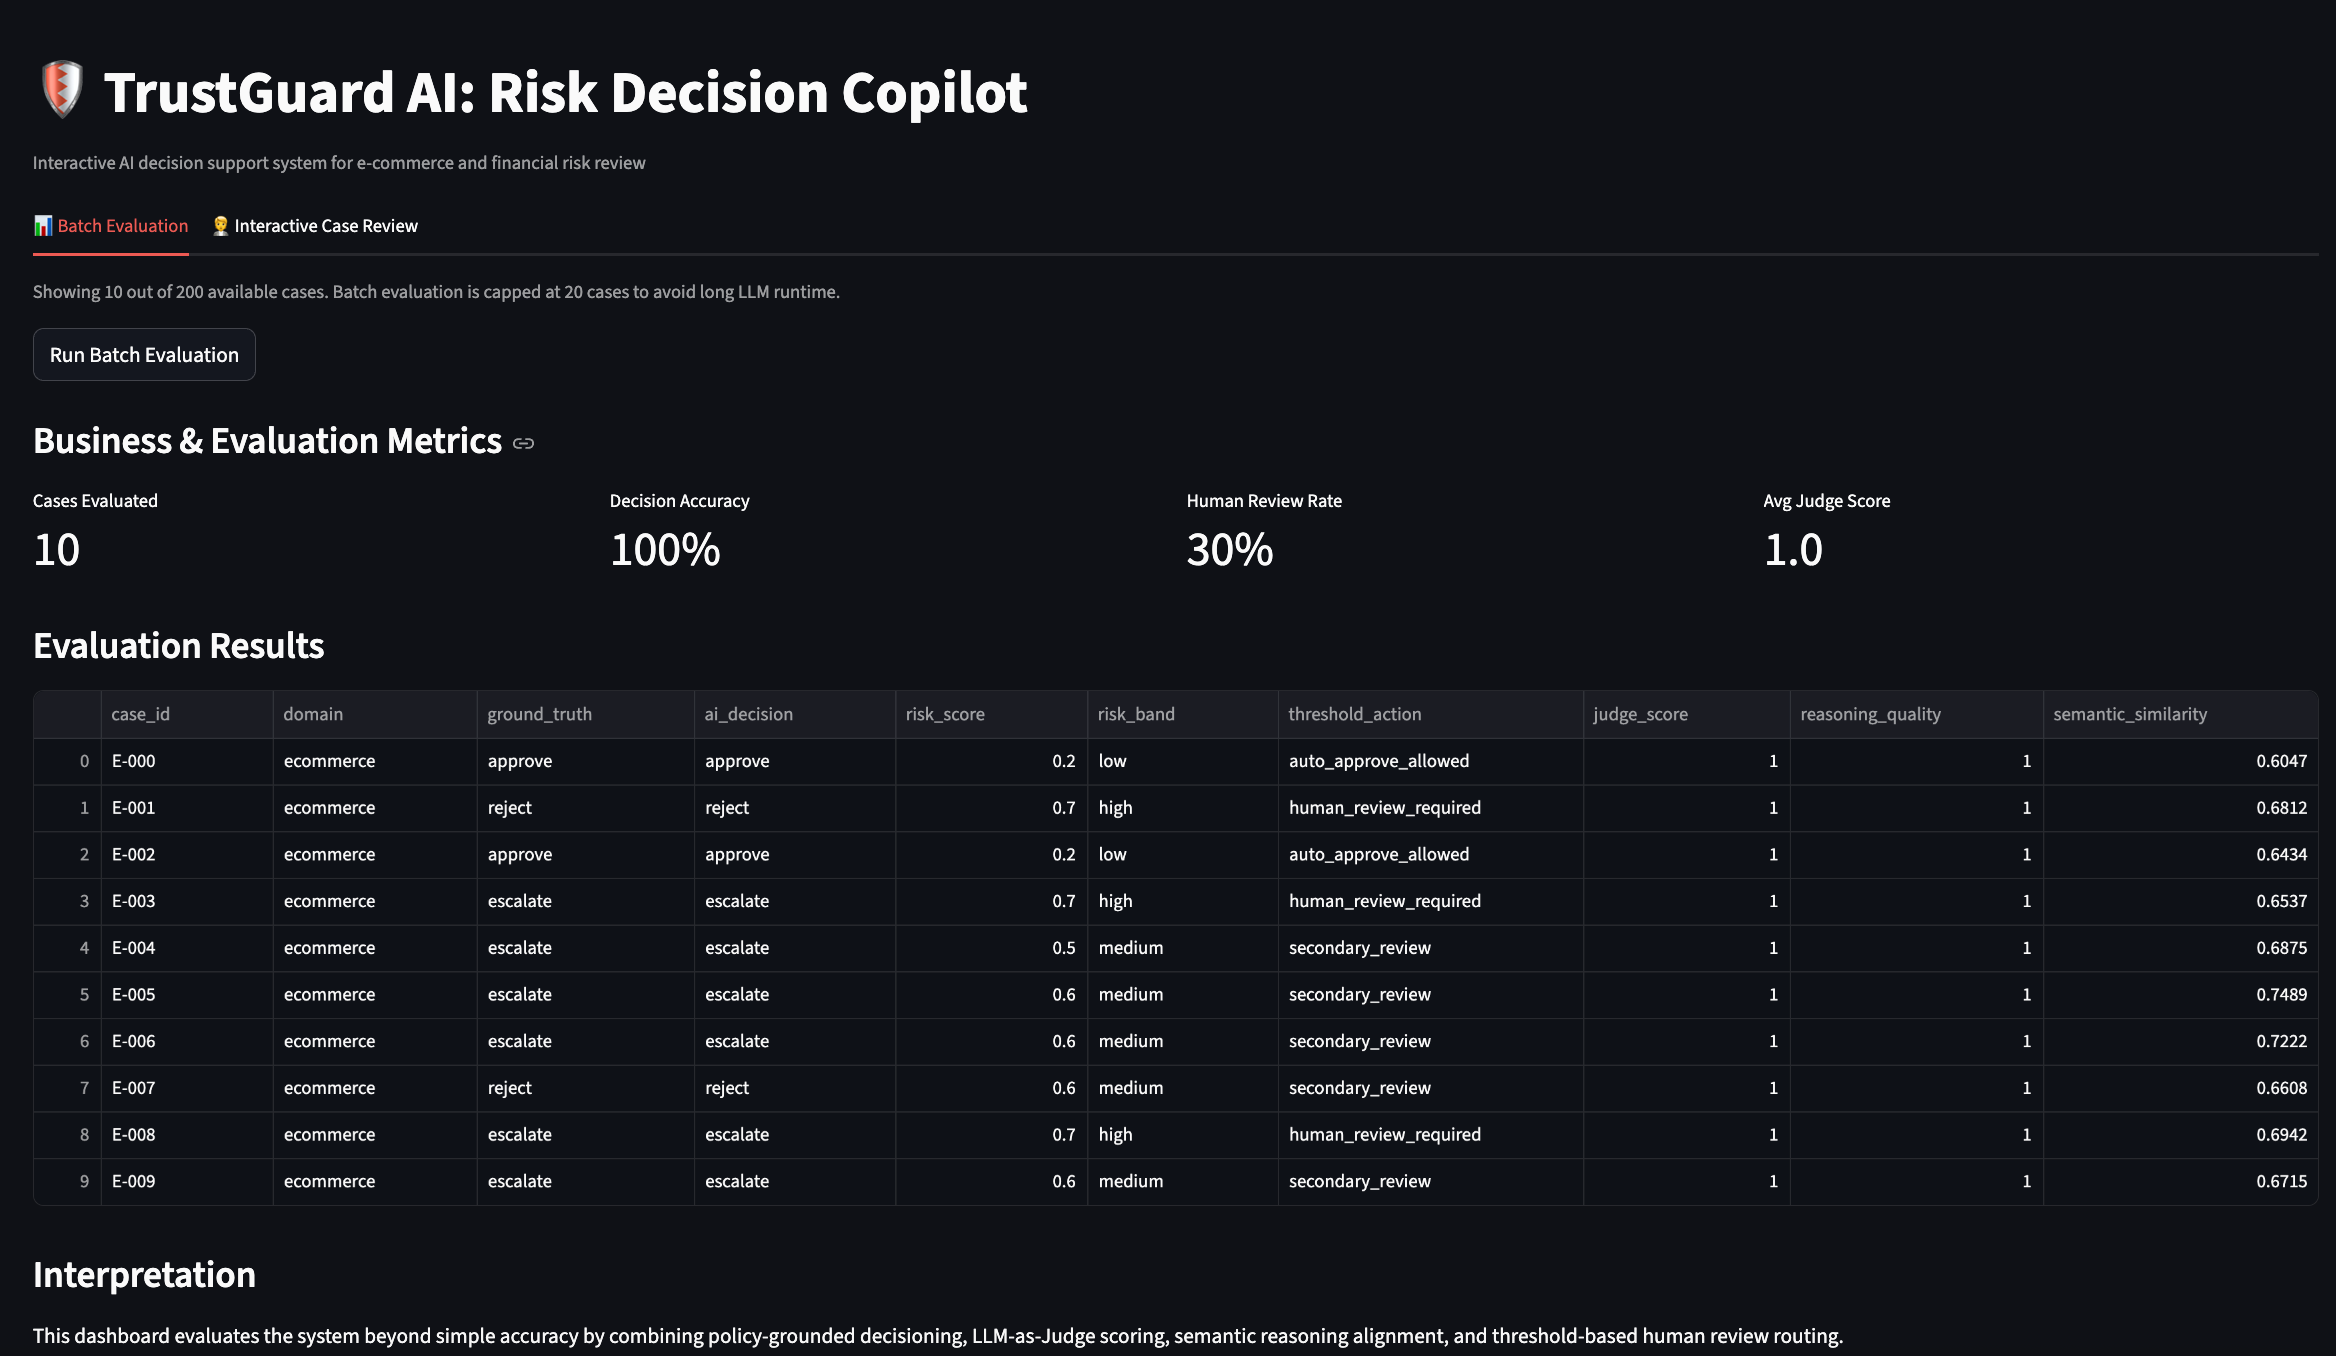
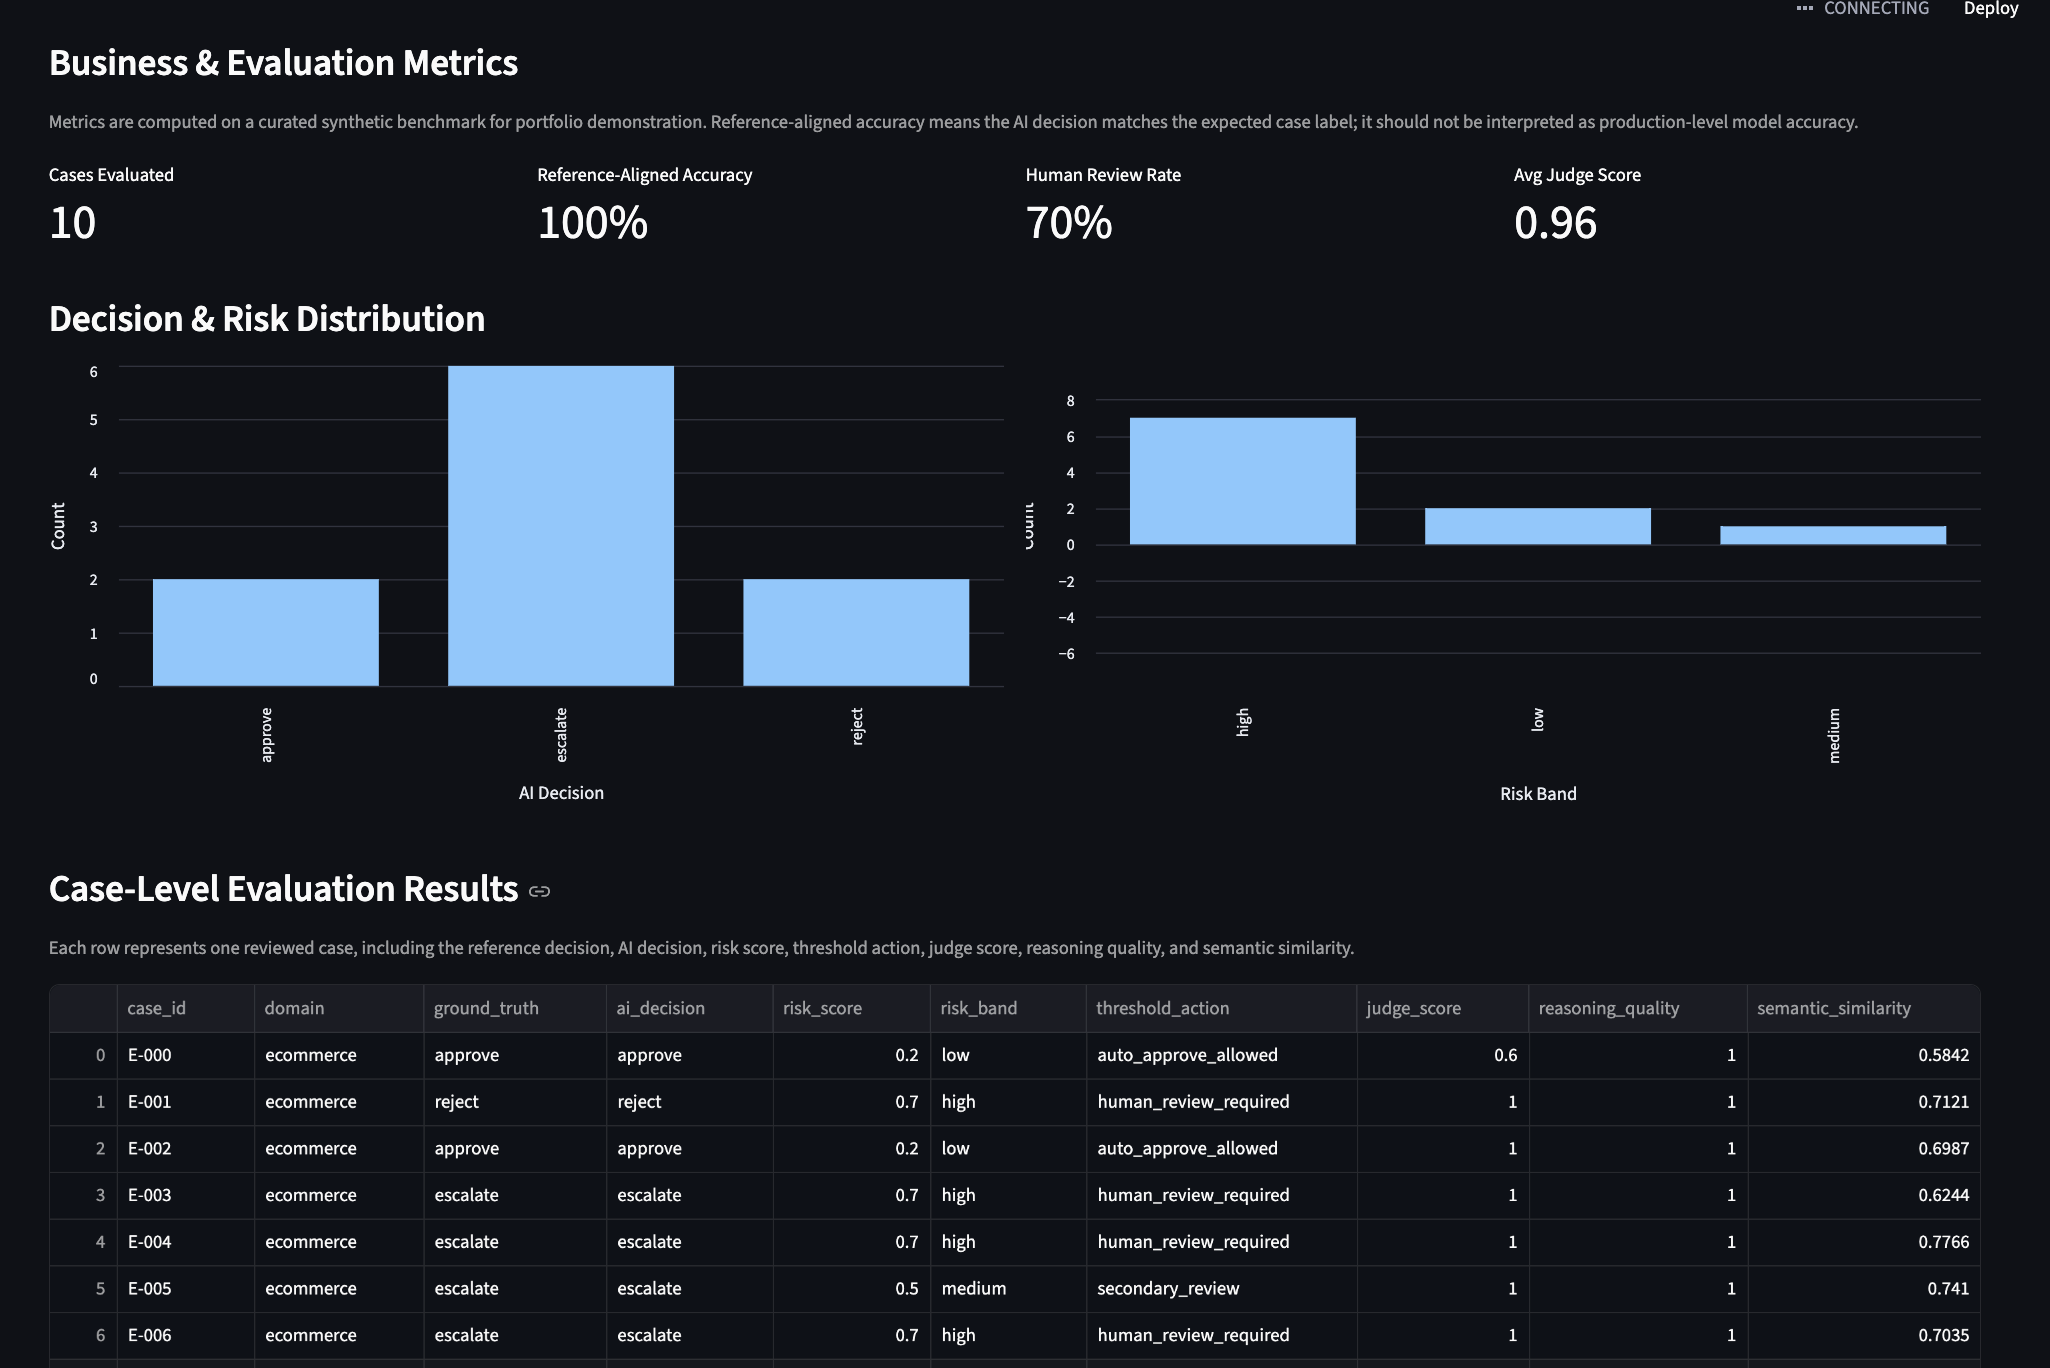
Update batch evaluation screenshot

diff --git a/README.md b/README.md
@@ -51,7 +51,7 @@ For each case, the system:
 
 ### Batch Evaluation Dashboard
 
-The batch evaluation view runs multiple risk cases through the AI decision pipeline and summarizes business-facing metrics, including decision accuracy, human review rate, judge score, semantic similarity, and threshold-based actions.
+The batch evaluation view summarizes reference match rate, human review rate, judge score, decision distribution, risk-band distribution, and case-level evaluation results.
 
 <img src="docs/screenshots/batch_evaluation.png" width="900">
 
